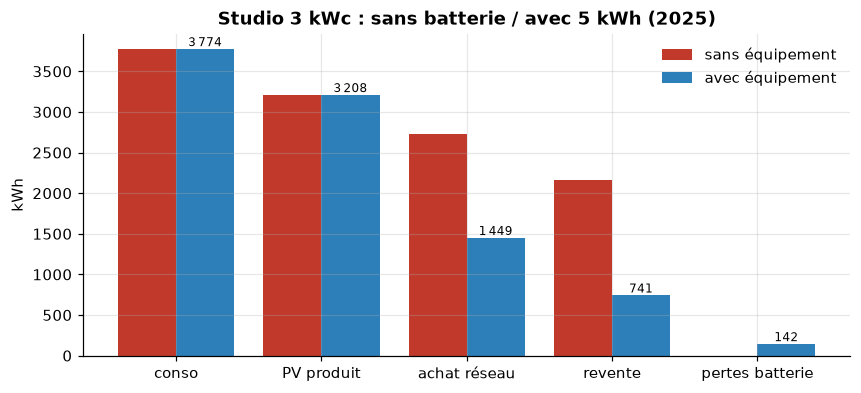
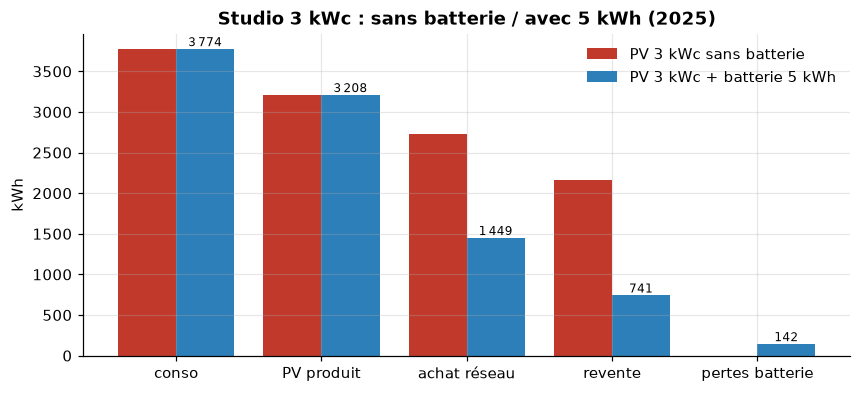
Rapport : légende « Comment lire » sous chaque graphique et lexique
- 39 légendes de 2-3 lignes lisibles sans connaître le projet
- étape 8 : tableau d'images remplacé par des sections légendées
- bilan du studio : libellés « PV sans batterie / PV + batterie » au lieu de « sans / avec équipement »

Changed region(s): [[0.6643, 0.1832, 0.9965, 0.2137], [0.6643, 0.1221, 0.9663, 0.1527]]

diff --git a/src/simu/plots.py b/src/simu/plots.py
@@ -308,15 +308,16 @@ def pv_profiles(pv_cf: pd.DataFrame, title="Facteur de charge PV national par mo
     return fig
 
 
-def energy_flows(summary_before: dict, summary_after: dict, title="Bilan énergétique annuel"):
+def energy_flows(summary_before: dict, summary_after: dict, title="Bilan énergétique annuel",
+                 names=("sans équipement", "avec équipement")):
     labels = ["conso", "PV produit", "achat réseau", "revente", "pertes batterie"]
     keys = ["conso_kwh", "pv_kwh", "achat_reseau_kwh", "revente_reseau_kwh", "pertes_batterie_kwh"]
     b = [summary_before.get(k, 0) for k in keys]
     a = [summary_after.get(k, 0) for k in keys]
     x = np.arange(len(labels))
     fig, ax = plt.subplots(figsize=(9, 3.8))
-    ax.bar(x - 0.2, b, 0.4, color=C["grid"], label="sans équipement")
-    ax.bar(x + 0.2, a, 0.4, color=C["grid_after"], label="avec équipement")
+    ax.bar(x - 0.2, b, 0.4, color=C["grid"], label=names[0])
+    ax.bar(x + 0.2, a, 0.4, color=C["grid_after"], label=names[1])
     for xi, v in zip(x + 0.2, a):
         ax.text(xi, v, f"{_n(v)}", ha="center", va="bottom", fontsize=8)
     ax.set_xticks(x)

diff --git a/scripts/rapport.py b/scripts/rapport.py
@@ -287,7 +287,7 @@ simulate.check_balance(r_st_bat, bat5)
 fig("e4_studio_batterie_semaine", plots.battery_use(r_st_bat, "2025-06-02", 7, "Studio 3 kWc + 5 kWh, règle « surplus PV » – juin"))
 fig("e4_studio_batterie_hiver", plots.battery_use(r_st_bat, "2025-01-13", 7, "Studio 3 kWc + 5 kWh, règle « surplus PV » – janvier"))
 s_st = {n: simulate.summary(r, b) for n, r, b in [("sans", r_st_none, None), ("pv", r_st_pv, None), ("pv_bat", r_st_bat, bat5)]}
-fig("e4_studio_bilan", plots.energy_flows(s_st["pv"], s_st["pv_bat"], "Studio 3 kWc : sans batterie / avec 5 kWh (2025)"))
+fig("e4_studio_bilan", plots.energy_flows(s_st["pv"], s_st["pv_bat"], "Studio 3 kWc : sans batterie / avec 5 kWh (2025)", names=("PV 3 kWc sans batterie", "PV 3 kWc + batterie 5 kWh")))
 # vérification de conservation
 f, ax = plt.subplots(figsize=(9, 3.4))
 e_check = bat5.e_init() + (bat5.eta * r_st_bat["bat_charge_kw"] - r_st_bat["bat_discharge_kw"] / bat5.eta).cumsum() * standard.DT_H

diff --git a/docs/rapport/RAPPORT.md b/docs/rapport/RAPPORT.md
@@ -16,7 +16,7 @@ Chiffres bruts : [chiffres.json](chiffres.json).
 | Le spread 80–180 €/MWh du plan est-il confirmé ? | **Oui en grande partie** : médiane 92 €/MWh, 64 % des jours entre 80 et 180 ; mais 35 % des jours sont **sous** 80 |
 | Une batterie est-elle rentable **sur l'énergie seule (spot)** ? | **Non** dans nos cas : temps de retour 16 à 30 ans pour une durée de vie d'environ 15 ans |
 | Qu'est-ce qui peut la rendre rentable ? | **Les pénalités de dépassement** (peak shaving) et **les coûts évités sur chaque kWh acheté** (acheminement + taxes, non modélisés par défaut). Ce sont eux qui décident, pas le spread |
-| Le PV est-il rentable ? | Pour la PME : oui avec un prix d'achat bas (12 ans) ; non au prix médian (28 ans) si on ne compte que le spot. Fortement rentable dès qu'on ajoute ~50 €/MWh de coûts évités |
+| Le PV est-il rentable ? | Pour la PME : oui avec un prix d'achat bas (12 ans) ; non au prix médian (28 ans) si on ne compte que le spot. Rentable dès qu'on compte ~50 €/MWh de coûts évités (retour 18 ans), nettement à 100 €/MWh (10,5 ans) |
 
 ⚠ **Lecture importante :** le coût d'achat simulé est **uniquement le prix de l'énergie** (spot,
 fixe ou bloc + spot), comme dans la fiche bloc + spot. Une vraie facture contient aussi
@@ -24,6 +24,24 @@ l'**acheminement (TURPE)** et des **taxes**, payés sur chaque kWh soutiré et d
 l'autoconsommation. Sans eux, les gains du PV et de la batterie sont **sous-estimés**. J'ai
 ajouté un paramètre (`import_surcharge_eur_mwh`, 0 par défaut) et une analyse de sensibilité
 (§ 7), mais **je n'ai pas fixé de valeur** : elle dépend du contrat du client.
+
+---
+
+## Petit lexique (pour lire les graphiques)
+
+| Terme | Signification |
+|---|---|
+| **kW / kWh** | puissance (à un instant) / énergie (puissance × durée). 1 kW pendant 1 h = 1 kWh |
+| **€/MWh** | prix de l'électricité ; 100 €/MWh = 0,10 €/kWh |
+| **Spot** | prix du marché de gros, différent pour chaque quart d'heure, connu la veille |
+| **Spread** | écart entre le prix le plus haut et le plus bas d'une journée |
+| **kWc** | « kilowatt-crête » : puissance maximale d'une installation de panneaux |
+| **SOC** | niveau de charge de la batterie, en % (gardé ici entre 10 et 90 %) |
+| **Autoconsommation** | part de la production solaire consommée sur place |
+| **Autoproduction** | part de la consommation couverte par le solaire |
+| **Puissance souscrite** | puissance maximale prévue au contrat ; la dépasser coûte une pénalité |
+| **Peak shaving** | utiliser la batterie pour « raboter » les pics de consommation |
+| **Bloc + spot** | contrat où une partie de l'énergie est achetée d'avance à prix fixe, le reste au prix du marché |
 
 ---
 
@@ -44,13 +62,22 @@ ajouté un paramètre (`import_surcharge_eur_mwh`, 0 par défaut) et une analyse
 
 ![CSV générique](fig/e0_csv_generique.png)
 
+> 📊 **Comment lire :** Une journée de consommation fictive lue depuis un fichier CSV. Les points rouges sont les valeurs du fichier (une par heure) ; la ligne bleu foncé est ce que le simulateur en fait (une valeur tous les quarts d'heure). Les deux se superposent : la conversion ne déforme pas les données.
+
+
 **Interprétation.** Le CSV horaire en heure de Paris devient bien 4 quarts d'heure par heure en
 UTC (minuit à Paris = 23 h UTC en novembre). Le cœur du simulateur ne verra jamais que ce format.
 
 ### Prix spot 2025
 
 ![Prix spot 2025](fig/e0_spot_2025.png)
+
+> 📊 **Comment lire :** Prix de l'électricité sur le marché de gros français en 2025 (« spot », en € par MWh). À gauche, chaque jour : la bande violette va du prix le plus bas au plus haut du jour, la ligne donne la moyenne. À droite, le prix moyen à chaque heure de la journée, en hiver (bleu) et en été (jaune) : l'été, le prix s'effondre en milieu de journée à cause du solaire.
+
 ![Spread 2025](fig/e0_spread_2025.png)
+
+> 📊 **Comment lire :** Le « spread » est l'écart entre le prix le plus haut et le plus bas d'une même journée : c'est ce qu'une batterie peut gagner en achetant au creux et en revendant au pic. À gauche, une barre par jour de 2025 ; à droite, combien de jours tombent dans chaque tranche d'écart. La bande jaune est la fourchette 80–180 €/MWh annoncée dans le plan.
+
 
 | Indicateur 2025 | Valeur |
 |---|---|
@@ -71,7 +98,13 @@ UTC (minuit à Paris = 23 h UTC en novembre). Le cœur du simulateur ne verra ja
 ### Production PV : deux sources comparées
 
 ![Profils PV](fig/e0_pv_profils.png)
+
+> 📊 **Comment lire :** À gauche, la production moyenne d'1 kWc de panneaux (kWc = puissance maximale) au cours d'une journée, mois par mois : 0,5 veut dire que le panneau produit la moitié de sa puissance maximale. À droite, l'énergie produite chaque mois par 1 kWc, selon deux sources de données (bleu et orange) : elles donnent presque la même chose.
+
 ![Sources PV](fig/e0_pv_sources.png)
+
+> 📊 **Comment lire :** Comparaison des deux sources de données solaires. À gauche, chaque point est un quart d'heure de 2025 : s'il est sur la diagonale, les deux sources sont d'accord, ce qui est presque toujours le cas. À droite, la puissance solaire installée en France chaque année selon chaque source : elles diffèrent d'environ 7 %.
+
 
 | Indicateur 2025 | Energy-Charts | RTE éCO2mix |
 |---|---|---|
@@ -106,13 +139,22 @@ UTC (minuit à Paris = 23 h UTC en novembre). Le cœur du simulateur ne verra ja
 
 ![Frigo](fig/e1_frigo.png)
 
+> 📊 **Comment lire :** Consommation simulée d'un réfrigérateur pendant 3 heures. En gris, son fonctionnement minute par minute (400 W pendant 7 min, 2 fois par heure) ; en bleu foncé, la moyenne par quart d'heure utilisée par le simulateur. La moyenne (93 W en continu) donne 2,24 kWh par jour, et non les 1 kWh annoncés dans le plan.
+
+
 **Interprétation – incohérence à trancher.** 400 W × (2 × 7 min) par heure × 24 h =
 0,4 × 14/60 × 24 = **2,24 kWh/jour**, pas 1. Soit la conso visée (≈ 1 kWh/jour, plus réaliste pour
 un frigo récent) est la bonne et il faut ~3 min de marche par cycle, ou 200 W ; soit les
 paramètres sont bons et la conso est de 2,24. **J'ai gardé les paramètres du plan** en attendant ta décision.
 
 ![Studio semaine](fig/e1_studio_semaine.png)
+
+> 📊 **Comment lire :** Consommation simulée d'un studio pendant une semaine, appareil par appareil (une couleur par appareil, empilées). À droite, la journée « moyenne » : la ligne est la moyenne, la bande grise contient 80 % des jours. Les pics du soir viennent du lave-vaisselle, ceux de la journée du lave-linge.
+
 ![Studio par appareil](fig/e1_studio_par_appareil.png)
+
+> 📊 **Comment lire :** Énergie consommée par jour par chaque appareil du studio. Le total, 10,34 kWh/jour, correspond aux ≈ 10 kWh attendus. Le lave-linge et le lave-vaisselle pèsent plus de la moitié, parce que j'ai supposé qu'ils tournent tous les jours.
+
 
 **Interprétation.** Le studio atteint 10,34 kWh/jour, mais c'est en partie **par construction** :
 j'ai supposé un lave-linge et un lave-vaisselle tous les jours (6 kWh à eux deux, soit 58 % du
@@ -121,6 +163,9 @@ La courbe est très « en marches d'escalier » : c'est la limite du bottom-up s
 sur les puissances, pas de foisonnement).
 
 ![PME semaine](fig/e1_pme_semaine.png)
+
+> 📊 **Comment lire :** Consommation simulée d'une PME de bureaux inventée pendant une semaine de juin (une couleur par usage). On voit le socle permanent (serveurs, froid), la journée de bureau en semaine, le pic de la cantine à midi et la recharge des véhicules. Le week-end, il ne reste que le socle.
+
 
 **Interprétation.** Pour tester batterie et PV sur un client où ils ont du sens, j'ai **inventé**
 une PME de bureaux : talon 15 kW (serveurs, froid), 45 kW de 8 h à 19 h en semaine, cantine 30 kW
@@ -141,12 +186,18 @@ une PME de bureaux : talon 15 kW (serveurs, froid), 45 kW de 8 h à 19 h en sema
 
 ![Exemple 270 €](fig/e2_exemple_270.png)
 
+> 📊 **Comment lire :** Exemple de la fiche « bloc + spot ». Le client achète d'avance 100 kW à prix fixe (pointillés). Quand il consomme plus (zone rouge), il achète le reste au prix du marché ; quand il consomme moins (zone verte), il revend l'excédent. La ligne violette est le prix du marché (axe de droite). À droite, le coût de la journée selon trois contrats : on retrouve les 270 € de la fiche.
+
+
 *(Ligne violette : prix spot, axe de droite.)*
 
 **Interprétation.** Le cas de référence de la fiche est retrouvé **exactement**, par les trois
 chemins (fonction, scénario, ligne de commande).
 
 ![PME offres](fig/e2_pme_offres.png)
+
+> 📊 **Comment lire :** À gauche, la facture d'énergie de la PME mois par mois selon trois contrats : prix du marché seul (violet), prix fixe à 80 €/MWh (gris), ou mélange des deux (bleu). À droite, le prix moyen du marché chaque mois, comparé au prix fixe de 80. En 2025, le marché a presque toujours été moins cher que le fixe.
+
 
 | PME, 2025 | Coût annuel de l'énergie |
 |---|---|
@@ -176,10 +227,25 @@ chemins (fonction, scénario, ligne de commande).
 | `test_surcout_sur_les_kwh_achetes` | surcoût appliqué aux seuls kWh achetés | ✅ |
 
 ![Conversion](fig/e3_conversion.png)
+
+> 📊 **Comment lire :** Vérification d'un calcul du plan : on convertit une quantité de soleil reçue en 4 heures (en J/cm²) en électricité produite par m² de panneau, avec un rendement de 20 %. Les deux barres doivent valoir 0,14 et 0,24 kW/m², ce qui est le cas.
+
 ![PV jour été semaine](fig/e3_pv_jour_ete_semaine.png)
+
+> 📊 **Comment lire :** Un mercredi de juin à la PME, avec 100 kWc de panneaux. La ligne foncée est la consommation ; en orange, l'électricité solaire consommée sur place ; en vert, le surplus revendu ; en pointillés bleus, ce qui est acheté au réseau (sous zéro = revendu). En semaine, presque tout le solaire est consommé sur place.
+
 ![PV jour été samedi](fig/e3_pv_jour_ete_samedi.png)
+
+> 📊 **Comment lire :** Même graphique pour un samedi de juin : les bureaux sont fermés, la consommation est faible et presque toute la production solaire part en vert, c'est-à-dire revendue au réseau, souvent à un prix très bas ce jour-là.
+
 ![PV jour hiver](fig/e3_pv_jour_hiver.png)
+
+> 📊 **Comment lire :** Même graphique pour un jour de janvier : la production solaire est faible et courte. Elle ne couvre qu'une petite partie de la consommation et il n'y a aucun surplus.
+
 ![PV mensuel](fig/e3_pv_mensuel.png)
+
+> 📊 **Comment lire :** Ce que deviennent, mois par mois, les kWh produits par les 100 kWc de la PME : consommés directement (orange), stockés en batterie (ici aucun, car il n'y a pas de batterie dans ce cas) ou revendus (vert). La production est 4 fois plus forte en été qu'en hiver.
+
 
 | PME + 100 kWc (2025) | Valeur |
 |---|---|
@@ -196,6 +262,9 @@ chemins (fonction, scénario, ligne de commande).
   que 14 €/MWh, car il tombe surtout les week-ends ensoleillés à prix négatif ou nul.
 
 ![Dimensionnement PV](fig/e3_dimensionnement_pv.png)
+
+> 📊 **Comment lire :** Que se passe-t-il si on pose plus ou moins de panneaux sur la PME ? À gauche : la part du solaire consommée sur place (orange) baisse quand on en pose beaucoup, tandis que la part de la consommation couverte par le solaire (vert) monte. À droite : l'économie annuelle. Si le surplus est revendu au prix du marché, elle croît en ligne droite ; s'il n'est pas payé (rouge), les grandes installations rapportent beaucoup moins.
+
 
 **Interprétation.** Au-delà de ~50 kWc, l'autoconsommation baisse : le PV dépasse la conso le midi.
 Si le surplus est revendu au spot, le gain est **strictement proportionnel** aux kWc, car un kWh
@@ -215,9 +284,21 @@ revente (et le TURPE évité) décide du bon dimensionnement.**
 | `check_balance` (appelé à chaque simulation) | bilan P_grid, SOC dans les bornes, énergie conservée | ✅ sur toutes les simulations annuelles |
 
 ![Batterie studio été](fig/e4_studio_batterie_semaine.png)
+
+> 📊 **Comment lire :** Une semaine de juin pour le studio équipé de 3 kWc de panneaux et d'une batterie de 5 kWh. En haut, le niveau de charge de la batterie (en %, de 10 à 90 %). En bas : barres jaunes = la batterie se charge avec le soleil, barres rouges = elle restitue l'énergie le soir ; la ligne violette est le prix du marché. Elle se remplit le jour et se vide le soir, presque chaque jour.
+
 ![Batterie studio hiver](fig/e4_studio_batterie_hiver.png)
+
+> 📊 **Comment lire :** Même graphique pour une semaine de janvier : le soleil suffit à peine pour la consommation de la journée, la batterie reste presque vide. En hiver, elle sert peu.
+
 ![SOC année](fig/e4_soc_annee.png)
+
+> 📊 **Comment lire :** Niveau de charge de la batterie du studio sur toute l'année. Il ne sort jamais des limites fixées (10 % et 90 %, pointillés rouges). C'est un test de bon fonctionnement du modèle de batterie. Elle est surtout utilisée d'avril à septembre.
+
 ![Bilan studio](fig/e4_studio_bilan.png)
+
+> 📊 **Comment lire :** Bilan d'une année pour le studio avec ses panneaux, sans batterie (rouge) puis avec batterie (bleu), en kWh. La batterie fait passer les achats au réseau d'environ 2 700 à 1 450 kWh et réduit fortement la revente du surplus. Elle perd environ 140 kWh par an (rendement de 90 %).
+
 
 | Studio, 3 kWc (2025) | Sans batterie | Avec 5 kWh |
 |---|---|---|
@@ -251,13 +332,22 @@ et on décharge sur les plus chers, en choisissant juste assez de quarts d'heure
 vider la batterie. On le fait seulement si le spread du jour couvre les pertes. Le surplus PV est toujours stocké.
 
 ![Semaine prix mars](fig/e5_semaine_prix.png)
+
+> 📊 **Comment lire :** Une semaine de mars à la PME (100 kWc + batterie 100 kWh) pilotée selon les prix. En haut, le niveau de charge de la batterie. En bas : barres bleues = charge depuis le réseau quand le prix (ligne violette) est bas ; barres rouges = décharge quand il est haut ; barres jaunes = charge avec le surplus solaire. La batterie fait environ un « plein puis vidange » par jour.
+
 ![Semaine prix juin](fig/e5_semaine_prix_ete.png)
+
+> 📊 **Comment lire :** Même graphique pour une semaine de juin : la batterie se charge en milieu de journée, quand le prix est au plus bas (souvent proche de zéro grâce au solaire), et se vide le matin et le soir, quand il remonte.
+
 
 **Interprétation.** La batterie fait environ un cycle par jour : elle se charge **la nuit** ou **au
 creux de midi** (prix bas ou négatifs) et se décharge **le matin et le soir**. En juin, la
 charge de midi coïncide avec le creux solaire : stocker l'énergie solaire, c'est aussi acheter le kWh le moins cher de la journée.
 
 ![Stratégies](fig/e5_strategies.png)
+
+> 📊 **Comment lire :** Économie annuelle de la PME selon l'équipement installé et la façon de piloter la batterie. Barre bleue = économie sur l'achat d'électricité ; barre verte = économie sur les pénalités payées quand on dépasse la puissance prévue au contrat (négative = on en paie plus). Le total est écrit à droite. Le pilotage selon les prix rapporte le plus sur l'énergie ; le pilotage « écrêter les pointes » (peak shaving) supprime toutes les pénalités.
+
 
 | PME, économie annuelle vs « rien » | Énergie | Pénalités | Total | Cycles/an |
 |---|---|---|---|---|
@@ -271,6 +361,9 @@ charge de midi coïncide avec le creux solaire : stocker l'énergie solaire, c'e
 | PV + batterie, peak shaving | 3 839 € | 2 640 € | 6 479 € | 1 |
 
 ![Gain vs spread](fig/e5_gain_vs_spread.png)
+
+> 📊 **Comment lire :** Chaque point est un jour de 2025, pour la PME avec une batterie seule pilotée selon les prix. En abscisse, l'écart entre le prix le plus haut et le plus bas du jour ; en ordonnée, ce que la batterie a fait gagner ce jour-là (couleur = mois). Plus l'écart est grand, plus le gain est élevé ; il dépasse rarement 15 € par jour. Les quelques points sous zéro sont des jours où la règle simple s'est trompée et a perdu un peu d'argent.
+
 
 **Interprétation.**
 - **Validation de l'étape :** sur les jours à fort spread (quart supérieur), la règle « prix »
@@ -297,8 +390,17 @@ charge de midi coïncide avec le creux solaire : stocker l'énergie solaire, c'e
 | `test_peak_shaving_ecrete_les_pointes` | pointe 30 → 20 kW ; recharge sous 18 kW ; pénalité 100 € → 0 € | ✅ |
 
 ![Monotone](fig/e6_monotone.png)
+
+> 📊 **Comment lire :** Les 8 760 heures de l'année, classées de la plus forte à la plus faible puissance achetée au réseau. Le pointillé est la puissance prévue au contrat (90 kW) ; tout ce qui dépasse est pénalisé. Rouge : sans équipement, la PME dépasse quelques centaines d'heures par an. Bleu : la batterie écrête exactement à 90 kW. Vert : une batterie chargée sans limite crée une pointe encore plus haute (136 kW).
+
 ![Jour de pointe](fig/e6_jour_pointe.png)
+
+> 📊 **Comment lire :** Les deux jours où la PME consomme le plus. Rouge : puissance achetée sans équipement ; bleu : avec une batterie qui écrête les pointes ; pointillés : puissance prévue au contrat (90 kW). La courbe bleue ne dépasse jamais le pointillé : la batterie fournit le complément pendant les pics de midi et se recharge ensuite, quand la consommation baisse.
+
 ![SOC peak shaving](fig/e6_soc_peak_shaving.png)
+
+> 📊 **Comment lire :** Même période, vue depuis la batterie : en haut son niveau de charge, en bas ses charges (bleu) et décharges (rouge). Elle ne se décharge que pendant les pics, puis se recharge doucement. Elle travaille peu, ce qui ménage son usure.
+
 
 **Interprétation.**
 - La pointe annuelle passe de **112 à 90 kW**, exactement la puissance souscrite, et la pénalité de
@@ -322,6 +424,9 @@ cycles, 15 ans), PV 25 ans, OPEX du PV 1,5 %/an, sans actualisation ni dégradat
 
 ![Temps de retour](fig/e7_temps_de_retour.png)
 
+> 📊 **Comment lire :** Nombre d'années nécessaires pour que les économies remboursent l'achat de l'équipement, selon que l'équipement est payé au prix bas (vert), moyen (jaune) ou haut (rouge) des fourchettes du devis. Le trait noir est la durée de vie de l'équipement : si la barre le dépasse, l'équipement meurt avant d'être remboursé. La plupart des barres le dépassent.
+
+
 | Cas (2025, énergie au spot) | Retour prix bas / médian / haut | Durée de vie | Rentable ? |
 |---|---|---|---|
 | PME : PV 100 kWc | 12 / 28 / 54 ans | 25 ans | **seulement au prix bas** |
@@ -332,7 +437,13 @@ cycles, 15 ans), PV 25 ans, OPEX du PV 1,5 %/an, sans actualisation ni dégradat
 | Studio : batterie 5 kWh ajoutée | 36 / 58 / 79 ans | 14,8 ans | non (au spot) |
 
 ![Taille batterie](fig/e7_taille_batterie.png)
+
+> 📊 **Comment lire :** Pour la PME, batterie seule pilotée selon les prix, de 25 à 400 kWh. Ligne bleue : ce qu'elle fait gagner par an. Zone rouge : ce qu'elle coûte par an (prix d'achat réparti sur sa durée de vie, du moins cher au plus cher). La ligne bleue reste toujours sous la zone rouge : quelle que soit la taille, la batterie coûte plus qu'elle ne rapporte.
+
 ![Usure vs spread](fig/e7_usure_vs_spread.png)
+
+> 📊 **Comment lire :** Chaque fois qu'une batterie se charge puis se vide, elle s'use : cela « coûte » environ 75 à 140 € par MWh restitué (traits verticaux, selon son prix d'achat). L'histogramme montre, pour chaque jour de 2025, ce que rapporte un cycle « acheter au plus bas, revendre au plus haut » (pertes comprises). Seuls les jours à droite des traits sont rentables, soit environ un quart des jours.
+
 
 **Interprétation.**
 - **Arbitrage seul : non rentable en 2025.** Le coût d'usure d'un kWh déchargé (CAPEX ÷ kWh
@@ -345,6 +456,9 @@ cycles, 15 ans), PV 25 ans, OPEX du PV 1,5 %/an, sans actualisation ni dégradat
   gain par kWh, mais elles reposent ici sur une hypothèse inventée.
 
 ![Sensibilité surcoût](fig/e7_sensibilite_surcout.png)
+
+> 📊 **Comment lire :** Sur une vraie facture, chaque kWh acheté coûte aussi des frais de réseau et des taxes, ignorés par défaut dans ce rapport. En abscisse, le montant de ces frais par MWh. À gauche, le gain annuel ; à droite, le nombre d'années pour rembourser (sous les traits noirs = rentable). Plus ces frais sont élevés, plus les panneaux deviennent rentables. Seule la batterie qui spécule sur les prix (vert) y perd, car elle achète plus de kWh qu'elle n'en rend.
+
 
 **Interprétation de la sensibilité** (surcoût ajouté à chaque kWh acheté : acheminement + taxes) :
 - **PV de la PME :** dès 50 €/MWh de surcoût évité, le retour tombe à 18 ans ; à 100 €/MWh, à **10,5 ans**. Le PV
@@ -362,15 +476,54 @@ cycles, 15 ans), PV 25 ans, OPEX du PV 1,5 %/an, sans actualisation ni dégradat
 Générés automatiquement pour la PME (PV 100 kWc + batterie 100 kWh, règle prix) ; même jeu pour le
 studio dans [fig/e8_studio](fig/e8_studio). Export CSV de tous les pas : `results/pme/resultats.csv`.
 
-| # | Graphique | PME |
-|---|---|---|
-| 1 | Utilisation du solaire | ![](fig/e8_pme/1_utilisation_solaire.png) |
-| 2 | Utilisation de la batterie | ![](fig/e8_pme/2_utilisation_batterie.png) |
-| 3 | Courbe de charge brute | ![](fig/e8_pme/3_courbe_de_charge_brute.png) |
-| 4 | Ce qu'on achète au réseau | ![](fig/e8_pme/4_courbe_achetee.png) |
-| 5 | Coût de l'énergie | ![](fig/e8_pme/5_cout_energie.png) |
-| 6 | Coût de la batterie | ![](fig/e8_pme/6_cout_batterie.png) |
-| 7 | Coût des panneaux | ![](fig/e8_pme/7_cout_panneaux.png) |
+### 1. Utilisation du solaire
+
+![Utilisation du solaire](fig/e8_pme/1_utilisation_solaire.png)
+
+> 📊 **Comment lire :** Ce que deviennent chaque mois les kWh produits par les 100 kWc de la PME, maintenant avec batterie : consommés directement (orange), stockés dans la batterie (vert foncé) ou revendus (vert clair). Le titre donne la production totale et la part utilisée sur place.
+
+
+### 2. Utilisation de la batterie
+
+![Utilisation de la batterie](fig/e8_pme/2_utilisation_batterie.png)
+
+> 📊 **Comment lire :** Une semaine de juin de la batterie de la PME. En haut, son niveau de charge ; en bas, ses charges depuis le soleil (jaune) ou le réseau (bleu) et ses décharges (rouge), avec le prix du marché (ligne violette, axe de droite).
+
+
+### 3. Courbe de charge brute
+
+![Courbe de charge brute](fig/e8_pme/3_courbe_de_charge_brute.png)
+
+> 📊 **Comment lire :** Consommation de la PME, avant tout équipement. À gauche, une semaine de juin ; à droite, la journée moyenne de l'année (ligne) et la plage dans laquelle se trouvent 80 % des jours (bande grise).
+
+
+### 4. Ce qu'on achète au réseau
+
+![Ce qu'on achète au réseau](fig/e8_pme/4_courbe_achetee.png)
+
+> 📊 **Comment lire :** Ce que la PME achète au réseau pendant une semaine de juin, sans équipement (rouge) et avec panneaux et batterie (bleu). Sous zéro (zone verte), elle revend. Le pointillé est la puissance prévue au contrat. Avec l'équipement, les achats de la journée sont fortement réduits et ne dépassent plus le pointillé, et le week-end la PME revend.
+
+
+### 5. Coût de l'énergie
+
+![Coût de l'énergie](fig/e8_pme/5_cout_energie.png)
+
+> 📊 **Comment lire :** Facture d'électricité de la PME, mois par mois, sans équipement (rouge) et avec panneaux et batterie (bleu). Le titre donne l'économie sur l'année et la légende les totaux annuels. Seul le prix de l'énergie est compté, sans frais de réseau ni taxes.
+
+
+### 6. Coût de la batterie
+
+![Coût de la batterie](fig/e8_pme/6_cout_batterie.png)
+
+> 📊 **Comment lire :** La batterie de 100 kWh seule. À gauche, son prix d'achat selon trois devis (bas, moyen, haut). À droite, l'argent cumulé au fil des années : on part du prix d'achat (négatif) et on ajoute chaque année ce qu'elle fait gagner en plus des panneaux. Si la ligne croise zéro avant la fin (15 ans), la batterie est remboursée ; ici, jamais.
+
+
+### 7. Coût des panneaux
+
+![Coût des panneaux](fig/e8_pme/7_cout_panneaux.png)
+
+> 📊 **Comment lire :** Même lecture pour les 100 kWc de panneaux, sur 25 ans. La ligne verte (prix d'achat bas) croise zéro au bout d'environ 12 ans : remboursé, puis bénéficiaire. Au prix moyen et au prix haut, les panneaux ne sont pas remboursés en 25 ans, si l'on ne compte que le prix de l'énergie.
+
 
 **Interprétation.** L'économie mensuelle est assez régulière en euros (≈ 300 à 700 €/mois). L'hiver,
 c'est surtout la batterie qui arbitre des prix élevés ; l'été, c'est le PV. En proportion, elle est
